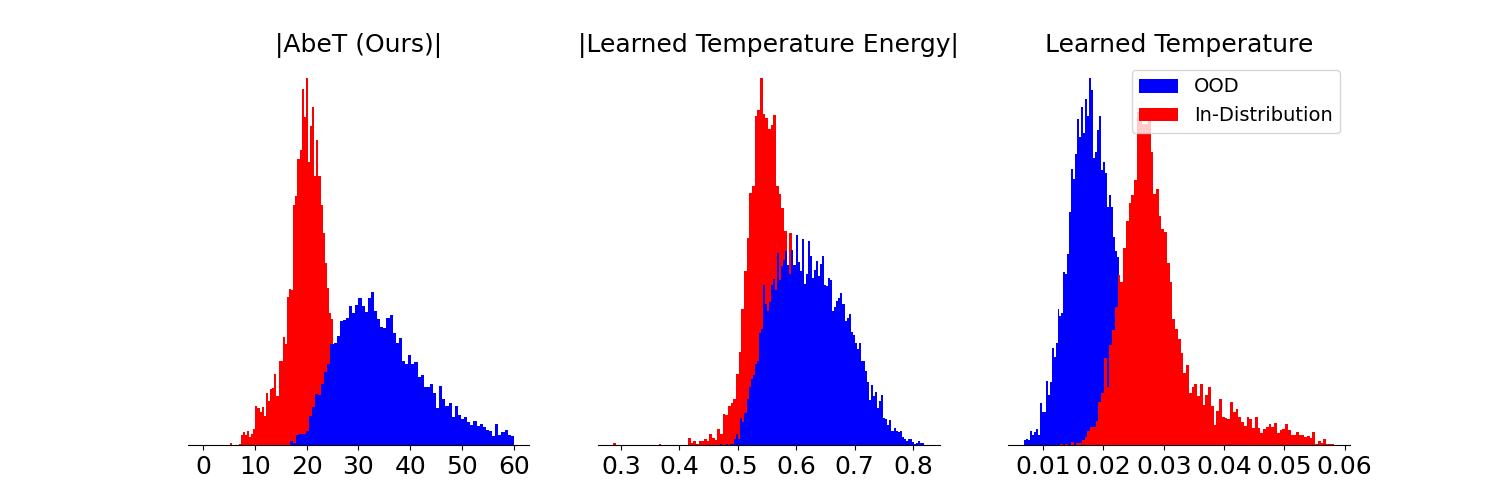
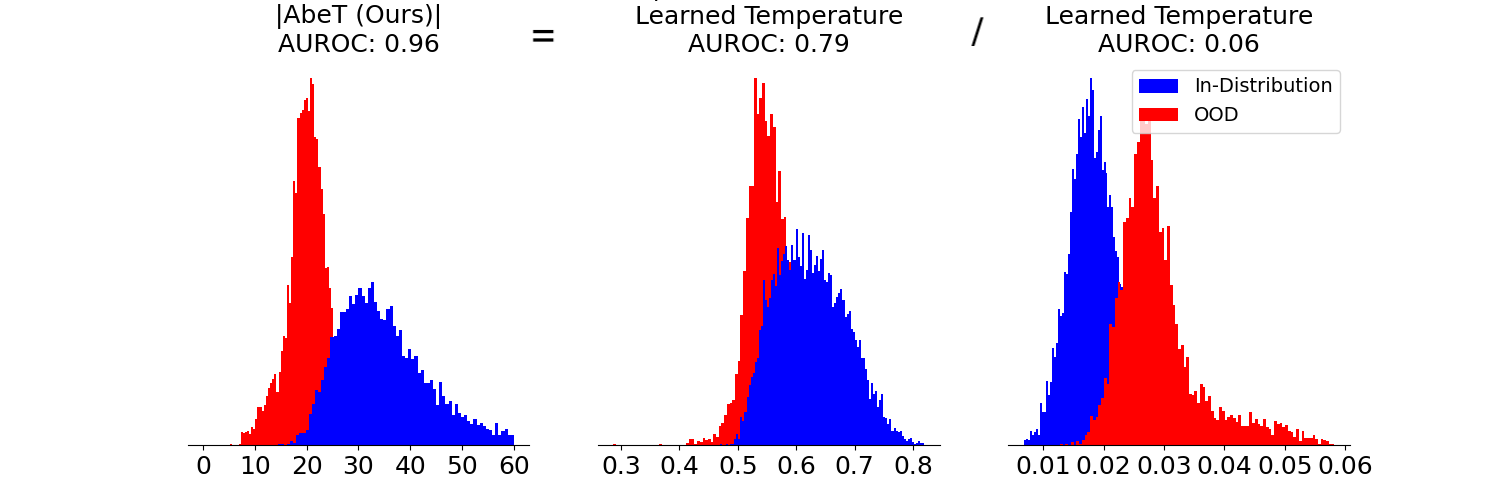
Add files via upload

diff --git a/main.py b/main.py
@@ -143,12 +143,7 @@ def get_datasets(data_dir, out_data_name, in_data_name, batch_size):
         test_set_in  = torchvision.datasets.CIFAR100(root=f'{data_dir}/cifar100', train=False, download=True, transform=test_transform)
     elif in_data_name == "Imagenet":
         train_set_in = torchvision.datasets.ImageFolder(f'{data_dir}/Imagenet/ILSVRC/Data/CLS-LOC/train/', transform=train_transform)
-        random_order = np.arange(len(train_set_in))
-        np.random.shuffle(random_order)
-        train_idx, test_idx = random_order[1000:], random_order[:1000]
-        test_set_in = torch.utils.data.Subset(train_set_in, test_idx)
-        test_set_in.dataset.transform = test_transform
-        train_set_in = torch.utils.data.Subset(train_set_in, train_idx)
+        test_set_in = torchvision.datasets.ImageFolder(f'{data_dir}/Imagenet/ILSVRC/Data/CLS-LOC/val/', transform=test_transform)
     elif in_data_name == "MNIST":
         train_set_in = torchvision.datasets.MNIST(root=f'{data_dir}/mnist', train=True, download=True, transform=train_transform)
         test_set_in  = torchvision.datasets.MNIST(root=f'{data_dir}/mnist', train=False, download=True, transform=test_transform)
@@ -163,8 +158,6 @@ def get_datasets(data_dir, out_data_name, in_data_name, batch_size):
         outlier_set  = torchvision.datasets.DTD(root=f'{data_dir}/Textures', download=True, transform=test_transform)
     else:
         raise Exception("Out data name not in allowed set: {}".format(out_data_name))
-    random_indices = np.random.choice(range(len(outlier_set)), len(test_set_in))
-    outlier_set = torch.utils.data.Subset(outlier_set, random_indices)
     outlier_loader       =  DataLoader(outlier_set,       batch_size=batch_size, shuffle=False, num_workers=4)
     
     test_indices      = list(range(len(test_set_in)))
@@ -196,6 +189,8 @@ def main():
         num_classes = 1000
     elif in_data_name == "MNIST":
         num_classes = 10
+    else:
+        raise ValueError(f"in-dataset needs to be one of CIFAR10/100, Imagenet, or MNIST.")
     batch_size       = args.batch_size
     
     train            = args.train
@@ -223,7 +218,7 @@ def main():
         os.makedirs(data_dir)
 
     if architecture == 'densenet':
-        underlying_net = densenet121(pretrained = True)
+        underlying_net = densenet121(pretrained = False)
     elif architecture == 'resnet101':
         underlying_net = KNOWN_MODELS['BiT-S-R101x1']()
     elif architecture == 'resnet20':
@@ -248,7 +243,7 @@ def main():
 
     optimizer = optim.SGD(parameters, lr = 0.1, momentum = 0.9, weight_decay = weight_decay)
     
-    scheduler = optim.lr_scheduler.MultiStepLR(optimizer, milestones = [100, 150, 180] if in_data_name != "Imagenet" else [20, 21, 22], gamma = 0.1)
+    scheduler = optim.lr_scheduler.MultiStepLR(optimizer, milestones = [100, 150, 180] if in_data_name != "Imagenet" else [20, 30], gamma = 0.1)
 
     # Load the model (capable of resuming training or inference)
     # from the checkpoint file
@@ -405,18 +400,19 @@ def main():
                 axs.append(ax)
 
 
+
             axs[0].hist(ood_test_abet_scores, color = 'r', bins = 100, density = True)
             axs[0].hist(id_test_abet_scores, color = 'b', bins = 100, density = True, range = (0, 60))
-            axs[0].set_title("|AbeT (Ours)|", fontsize = 18)
+            axs[0].set_title("|AbeT (Ours)|\nAUROC: {:.2f}".format(auroc), fontsize = 18)
 
             axs[1].hist(ood_test_energy_scores, color = 'r', bins = 100, density = True)
             axs[1].hist(id_test_energy_scores, color = 'b', bins = 100, density = True)
-            axs[1].set_title("|Energy|", fontsize = 18)
+            axs[1].set_title("|Energy Infused w/\nLearned Temperature\nAUROC: {:.2f}".format(calc_auroc(id_test_energy_scores, ood_test_energy_scores)), fontsize = 18)
             
 
-            axs[2].hist(id_test_temperature_scores, color = 'b', bins = 100, label = "OOD", density = True)
-            axs[2].hist(ood_test_temperature_scores, color = 'r', bins = 100, label= "In-Distribution", density = True)
-            axs[2].set_title("Learned Temperature", fontsize = 18)
+            axs[2].hist(id_test_temperature_scores, color = 'b', bins = 100, label = "In-Distribution", density = True)
+            axs[2].hist(ood_test_temperature_scores, color = 'r', bins = 100, label= "OOD", density = True)
+            axs[2].set_title("Learned Temperature\nAUROC: {:.2f}".format(calc_auroc(id_test_temperature_scores, ood_test_temperature_scores)), fontsize = 18)
             axs[2].legend(fontsize = 14)
             
             plt.savefig("pngs/{}_{}_histogram.png".format(out_data_name, in_data_name))

diff --git a/README.md b/README.md
@@ -34,17 +34,23 @@ For more details about these OOD datasets, please check out the [MOS paper](http
 
 All remaining OOD datasets for CIFAR10/100 evaluations are automatically downloaded in our script to `./data`
 
-## 2. Model Training
+## 2. Installation
+The following will create and activate a conda environment.
+```
+conda env create -f environment.yml
+conda activate abet
+```
+
+## 3. Model Training
 
 To train a model, please run:
 ```
 python main.py --save-model-path <path you would like to save model weights to> --architecture <"resnet20" for CIFAR10/100 and "resnet101" for ImageNet-1k> --out-dataset <OOD dataset> --in-dataset <ID dataset>
 ```
 For reproducibility purposes, we host our pre-trained models in [a common Google Drive folder](https://drive.google.com/drive/folders/1foWuTJX_JmiGF7vPRTxlui4TMr7fa9EJ?usp=sharing).
-
 All AbeT results use the models with the `_learned_temperature.pth` postfix - as our method requires the use of a learned temperature.
 
-## 3. OOD Detection Evaluation
+## 4. OOD Detection Evaluation
 To evaluate a model using AbeT, please run:
 ```
 python main.py --load-model-path <path to model weights you would like to load> --architecture <"resnet20" for CIFAR10/100 and "resnet101" for ImageNet-1k> --out-dataset <OOD dataset> --in-dataset <ID dataset> --no-train --inference-mode ablated_energy
